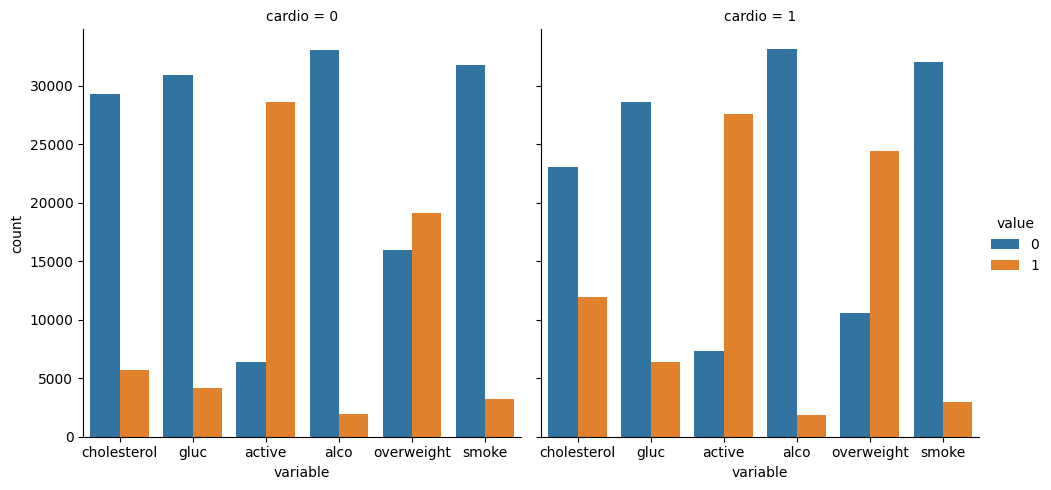
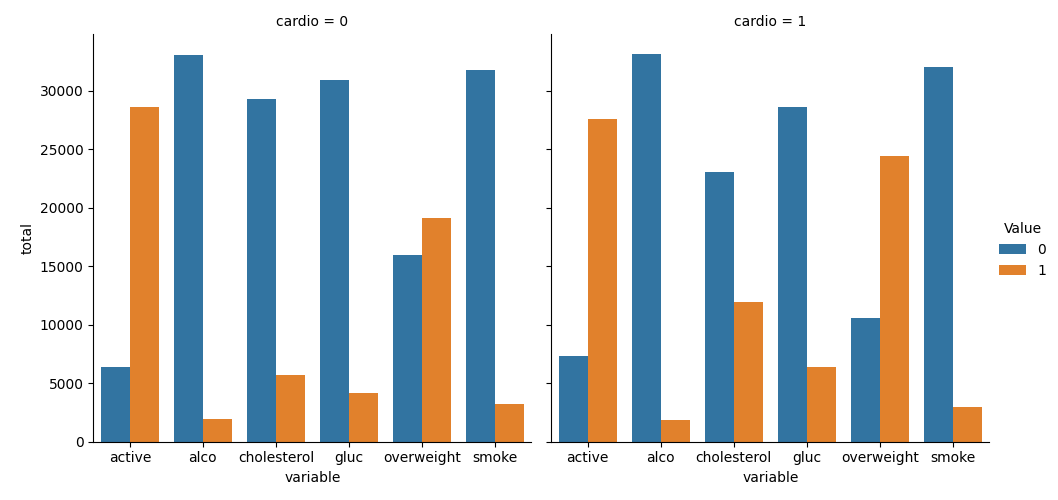
Conserto de 99% dos erros menos 1

diff --git a/medical_data_visualizer.py b/medical_data_visualizer.py
@@ -21,20 +21,19 @@ df.loc[df['gluc'] > 1, 'gluc'] = 1
 # 4
 def draw_cat_plot(): 
     # 5
-    categorical_feats = ['cholesterol', 'gluc', 'active', 'alco', 'overweight', 'smoke']
+    categorical_feats = ['active', 'alco', 'cholesterol', 'gluc',  'overweight', 'smoke']
     df_cat = pd.melt(df, id_vars=['cardio'], value_vars=categorical_feats)
-
-
     # 6
-
+    df_cat.rename(columns={'value': 'Value'}, inplace=True)
     # 7
-
-
-
+    fig, ax = plt.subplots(figsize=(12,6))
+    catplot = sns.catplot(x='variable', hue='Value', col='cardio', data=df_cat, kind="count")
     # 8
-    fig = sns.catplot(x='variable', hue='value', col='cardio', data=df_cat, kind="count")
+    catplot.set_axis_labels("variable", "total")
+    fig = catplot.fig
 
 
+    
     # 9
     fig.savefig('catplot.png')
     return fig
@@ -44,24 +43,26 @@ def draw_cat_plot():
 def draw_heat_map():
     # 11
     df_heat = df
-    df_heat[df_heat['height'] >= df_heat['height'].quantile(0.025)]
-    df_heat[df_heat['height'] <= df_heat['height'].quantile(0.975)]
-    df_heat[df_heat['weight'] >= df_heat['weight'].quantile(0.025)]
-    df_heat[df_heat['weight'] <= df_heat['weight'].quantile(0.975)]
+    df_heat = df_heat[['id', 'age', 'sex', 'height', 'weight', 'ap_hi', 'ap_lo', 'cholesterol', 'gluc', 'smoke', 'alco', 'active', 'cardio', 'overweight']]
+    df_heat = df_heat[
+        (df_heat['height'] >= df_heat['height'].quantile(0.025)) &
+        (df_heat['height'] <= df_heat['height'].quantile(0.975)) &
+        (df_heat['weight'] >= df_heat['weight'].quantile(0.025)) &
+        (df_heat['weight'] <= df_heat['weight'].quantile(0.975))
+    ]
 
-    # 12
+    # 2. Calculate the correlation matrix
     corr = df_heat.corr()
 
-    # 13
-    mask = np.triu(np.ones_like(corr))
+    # 3. Generate a mask for the upper triangle
+    mask = np.triu(np.ones_like(corr, dtype=bool))
 
+    # 4. Set up the matplotlib figure
+    fig, ax = plt.subplots(figsize=(12, 6))
 
+    # 5. Plot the correlation matrix using seaborn's heatmap
 
-    # 14
-    fig = plt.figure(figsize=(12,6))
-    # 15
-    sns.heatmap(corr, mask=mask, annot=True, square=True)
-
+    sns.heatmap(corr, mask=mask, annot=True,fmt='.1f', square=True, ax=ax)
 
     # 16
     fig.savefig('heatmap.png')
